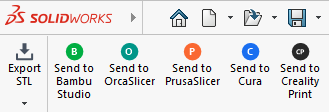
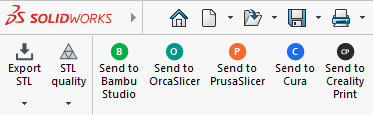
Explain persistent STL quality in README and update toolbar screenshot

diff --git a/README.md b/README.md
@@ -1,4 +1,4 @@
-# SolidSlice – 3D Print tab for SolidWorks
+# SolidSlice – 3D Print tab for SolidWorks
 
 A SolidWorks add-in that adds a **3D Print** tab (and menu) to parts and assemblies:
 
@@ -6,8 +6,13 @@ A SolidWorks add-in that adds a **3D Print** tab (and menu) to parts and assembl
   - **Save next to part**: saves the STL in the part's folder, with no dialog
   - **Choose location...**: pick the folder and file name yourself. The add-in remembers
     the last folder you used.
-- **Quality** (dropdown): the triangle resolution for **every** export, both Export STL
-  and all slicer buttons. The current choice is marked with ✓ and remembered.
+- **STL quality** (dropdown): the triangle resolution for **every** export, both Export STL
+  and all slicer buttons. The current choice is marked with ✓.
+  - **Set it once:** your choice is saved and used for all later exports, even after
+    restarting SolidWorks, until you pick a different preset.
+  - **Your own settings stay untouched:** SolidWorks' built-in STL options
+    (*File → Save As → STL → Options*) are not changed. The preset applies only to
+    SolidSlice exports, so a manual *Save As → STL* behaves exactly as before.
 
   | Preset | Max deviation | Max angle |
   |---|---|---|
@@ -19,7 +24,7 @@ A SolidWorks add-in that adds a **3D Print** tab (and menu) to parts and assembl
 
 - **One button per installed slicer**: exports the model and opens it in that slicer.
 
-![The 3D Print tab in SolidWorks with Export STL and Send to Bambu Studio, OrcaSlicer, PrusaSlicer, Cura and Creality Print buttons](docs/toolbar.png)
+![The 3D Print tab in SolidWorks with Export STL, STL quality, and Send to Bambu Studio, OrcaSlicer, PrusaSlicer, Cura and Creality Print buttons](docs/toolbar.png)
 
 Supported slicers (a button only appears if the slicer is installed):
 
@@ -80,7 +85,7 @@ Leave the setting off if you prefer a fresh slicer window for every part.
 ## How it works
 
 - **STL format:** STLs are always binary, in millimetres, and a single file for assemblies,
-  with the triangle resolution from the **Quality** dropdown.
+  with the triangle resolution from the **STL quality** dropdown.
   Your SolidWorks STL export settings are restored afterwards. If you're not using the
   Default configuration, its name is added to the file name.
 - **Export STL** writes `<part folder>\<part name>.stl` and overwrites any existing file.
@@ -109,7 +114,7 @@ Then run `install.cmd` again.
 
 ## Tips
 
-- **Faceted curves?** Pick *High* or *Ultra* in the **Quality** dropdown.
+- **Faceted curves?** Pick *High* or *Ultra* in the **STL quality** dropdown.
   **Huge files or a slow slicer?** Go down to *Normal* or *Draft*.
 - To rebuild after changing the code, close SolidWorks first, because it locks the DLL.
 
